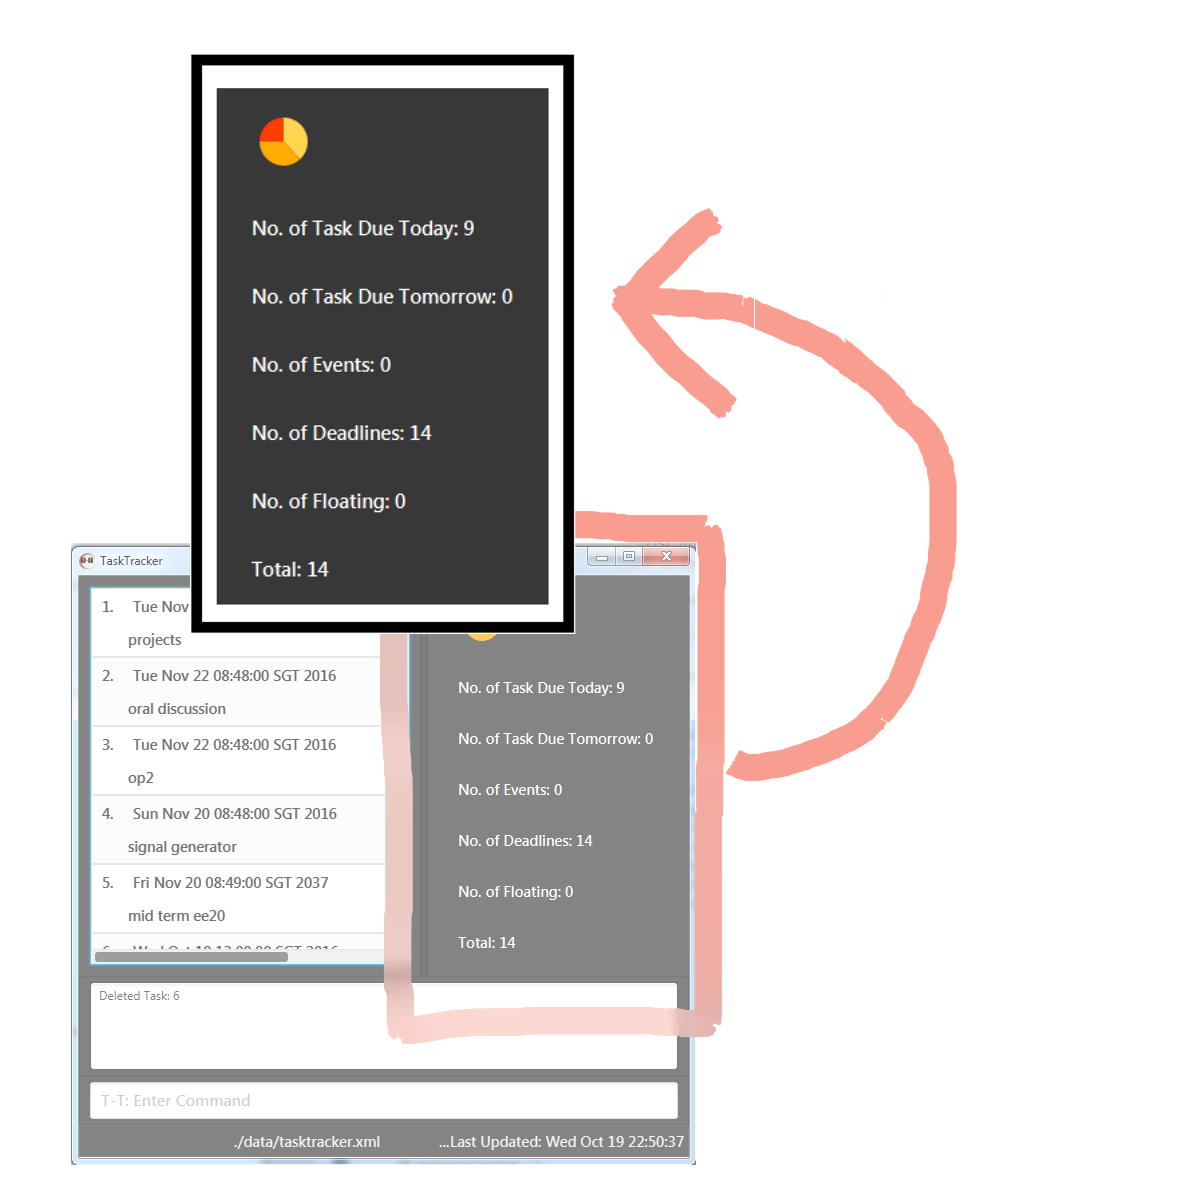
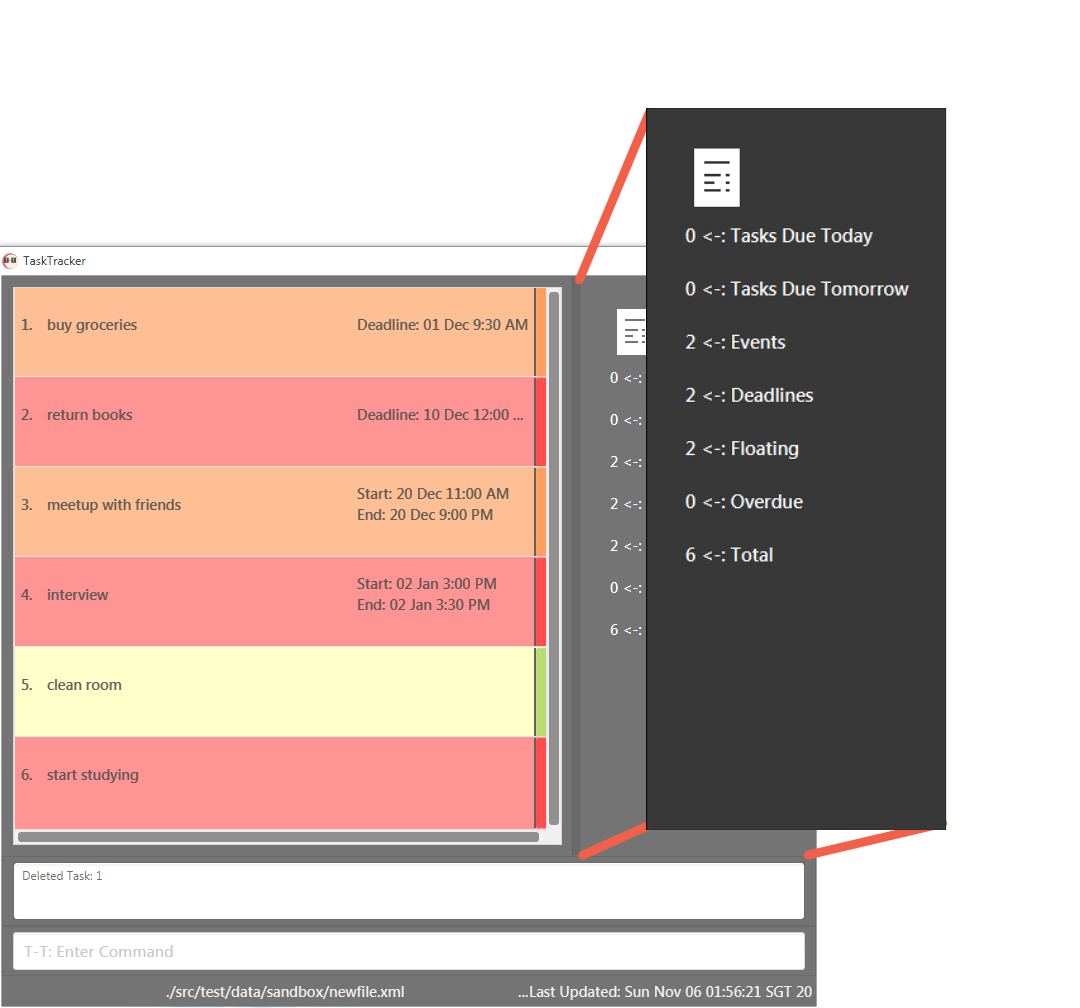
Updated User Guide content and screenshots for final draft

diff --git a/docs/UserGuide.md b/docs/UserGuide.md
@@ -8,13 +8,14 @@
 *   [Quick Start](https://github.com/CS2103AUG2016-T09-C3/main/blob/master/docs/UserGuide.md#quick-start)
 *   [Commands](https://github.com/CS2103AUG2016-T09-C3/main/blob/master/docs/UserGuide.md#commands)
     -   [Add a Task](https://github.com/CS2103AUG2016-T09-C3/main/blob/master/docs/UserGuide.md#1-add-a-task)
-    -   [Edit a Task](https://github.com/CS2103AUG2016-T09-C3/main/blob/master/docs/UserGuide.md#2-edit-a-task)
+    -   [List Tasks](https://github.com/CS2103AUG2016-T09-C3/main/blob/master/docs/UserGuide.md#5-list-tasks)
     -   [Delete a Task](https://github.com/CS2103AUG2016-T09-C3/main/blob/master/docs/UserGuide.md#3-delete-a-task)
     -   [Done Task](https://github.com/CS2103AUG2016-T09-C3/main/blob/master/docs/UserGuide.md#4-done-task)
-    -   [List Tasks](https://github.com/CS2103AUG2016-T09-C3/main/blob/master/docs/UserGuide.md#5-list-tasks)
+    -   [Edit a Task](https://github.com/CS2103AUG2016-T09-C3/main/blob/master/docs/UserGuide.md#2-edit-a-task)
     -   [Undo](https://github.com/CS2103AUG2016-T09-C3/main/blob/master/docs/UserGuide.md#6-undo)
     -   [Redo](https://github.com/CS2103AUG2016-T09-C3/main/blob/master/docs/UserGuide.md#7-redo)
     -   [Search for Tasks](https://github.com/CS2103AUG2016-T09-C3/main/blob/master/docs/UserGuide.md#8-search-for-tasks)
+    -   [Sort]()
     -   [Storage](https://github.com/CS2103AUG2016-T09-C3/main/blob/master/docs/UserGuide.md#9-storage)
     -   [Help Command](https://github.com/CS2103AUG2016-T09-C3/main/blob/master/docs/UserGuide.md#10-help)
 *   [Unique Features](https://github.com/CS2103AUG2016-T09-C3/main/blob/master/docs/UserGuide.md#unique-features)
@@ -43,7 +44,7 @@ In order to install T-T,
 
 ## **Commands**
 
-`<>` _indicates that field is compulsory_ and `[]` _indicates that field is optional._ 
+##### `<>` _indicates that field is compulsory_ and `[]` _indicates that field is optional._ 
 
 ### 1. **ADD** a Task
 
@@ -68,31 +69,40 @@ The format for adding a new task is: <br>
     *   Except for `<task>`, the other parameters can be inputed in any order.
 
 <br>For example:<br>
-*   `•  add wash dishes monday 4pm -h ` will create a high priority `wash dishes` task to be done on the **next Monday**.
-*   `•  add call mum tmr ` will create a task named `call mum` to be done anytime on **the next day** with **normal** priority.<br>
-![Add Screen](images/Add_Command2.png)
+*   ` add wash dishes monday 4pm -h ` will create a high priority `wash dishes` task to be done on the **next Monday**.
+*   ` add call mum tmr ` will create a task named `call mum` to be done anytime on **the next day** with **normal** priority.<br>
+<img src="images/add_command1.png" height="600p" width="750p"><br>
 <br>
-![Add Screen](images/Add_Command.png)
+!<img src="images/add_command2.png" height="600p" width="750p"><br>
 
-### 2. **EDIT** a Task
+### 2. **LIST** Tasks
 
-The format to edit an existing task is : <br>
-&nbsp; &nbsp; `edit <task index> <new task> [new date1] [new date2] [-h | -m | -l] ` <br>
+The format to list tasks is : <br>
+&nbsp; &nbsp; `list [date | priority | done]`<br>
 
-  * `<task index>` can be obtained from the list panel, or by using the list command (See **List** command).
+>   *   The tasks will be shown based on the parameters specified. If no parameters given, the tasks are organized by date.
+>   *   done parameter will list all the tasks marked done.
+>   *   Both date and priority can be specified at the same time.
 
-<br> For example: <br>
+Tasks can be listed according to their priority, date when they are due or if they are marked as done.
 
-Let’s say task index “**1**” refers to the task `wash dishes monday 4pm`
+<br> For example : <br>
+* `list` will display all tasks organised by date.
+* `list 9 Oct`  will display all tasks due on 9th October.
+* `list high` will display all tasks of high priority.
+* `list high today` will display all tasks of high priority due today.
+* `list done` will display all the tasks marked done.
+* `list done today` will display all the done tasks which were due today.
 
-*  `edit 1 wash dishes tuesday 6pm -h` will edit the existing `wash dishes` task to `use dishes` and change the date from **monday** to **tuesday** , time from **4pm** to **6pm** and priority from **medium** to **high**.
+<br>
+<img src="images/list_command.png" height="600p" width="750p"><br>
 
 ### 3. **DELETE** a Task
 
 The format to delete an existing task is : <br>
 &nbsp; &nbsp; `delete <task index>` <br>
 
->   *  `<task index>` can be obtained from the list panel, or by using the list 
+>   *  `<task index>` can be obtained from the list panel.
 
 
 <br> For example: <br>
@@ -105,12 +115,12 @@ Let’s say task index “**1**” refers to the task `wash dishes monday 4pm`
 
 ### 4. **DONE** TASK
 
-Tasks can be marked done after they have been completed. Tasks marked as done will not appear in the main list, but can be viewed by the list command (see LIST).<br>
-
 The format to mark a task as done is : <br>
 &nbsp; &nbsp; `done <task index>` <br>
 
->   *  `<task index>` can be obtained from the list panel, or by using the list 
+>   *  `<task index>` can be obtained from the list panel.
+
+Tasks can be marked done after they have been completed. Tasks marked as done will not appear in the main list, but can be viewed by the **LIST** command.<br>
 
 <br> For example: <br>
 
@@ -118,37 +128,33 @@ Let’s say task index “**1**” refers to the task `do laundry monday 4pm`
 
 *   `done 1` will mark the `do laundry` task as done.
 
-### 5. **LIST** Tasks
+### 5. **EDIT** a Task
 
-Tasks can be listed according to their priority, date when they are due or if they are marked done.
 The format to edit an existing task is : <br>
-&nbsp; &nbsp; `list [date | priority | done]`<br>
+&nbsp; &nbsp; `edit <task index> <new task> [new date1] [new date2] [-h | -m | -l] ` <br>
 
->   *   The tasks will be shown based on the parameters specified. If no parameters given, the tasks are organized by date.
->   *   done parameter will list all the tasks marked done.
->   *   Both date and priority can be specified at the same time.
+  * `<task index>` can be obtained from the list panel.
 
-<br> For example : <br>
-`list 9 Oct`  will display all tasks due on 9th October.
-`list high` will display all tasks of high priority.
-`list` will display all tasks organised by date.
-`list high today` will display all tasks of high priority due today.
-`list done` will display all the tasks marked done.
-`list done today` will display all the done tasks which were due today.
+<br> For example: <br>
 
+Let’s say task index “**1**” refers to the task `wash dishes monday 4pm`
+
+*  `edit 1 wash dishes tuesday 6pm -h` will edit the existing `wash dishes` task to `use dishes` and change the date from **monday** to **tuesday** , time from **4pm** to **6pm** and priority from **medium** to **high**.
 <br>
-![List Screen](images/List_Command.png)
+<img src="images/edit_command1.png" height="600p" width="750p"><br>
 
+<img src="images/edit_command2.png" height="550p" width="650p"><br>
+<br>
 ### 6. **UNDO**
 
-Enter `undo` into the command line to undo the previous commands you have entered in the session.  
+The `undo` command will undo the previous commands you have entered in the session.  
 
 <br> For example : <br>
 Entering `undo` after executing `delete 2` will bring back the deleted task.
 
 ### 7. **REDO**
 
-Enter `redo` into the command line to redo the previous undo you have executed in the session.  
+The `redo` command will redo the previous `undo` you have executed in the session.  
 
 ### 8. **SEARCH** for Tasks
 
@@ -159,15 +165,36 @@ The format to search for certain tasks is :
 
 For example:  
 
-Let say task index **1** refers to the task `wash dishes monday 4pm`
+Let say there is a task `wash dishes monday 4pm`
 
 *   `search dishes` will show the existing `wash dishes` task.
 
-### 9. **STORAGE** 
-The storage command can be used to change the storage location of tasks. Tasks are stored on the PC in an XML file.
+<br>
+<img src="images/search_command1.png" height="600p" width="750p"><br>
+<br>
+<br>
+<img src="images/search_command2.png" height="600p" width="750p"><br>
+<br>
+
+### 9. **SORT** Tasks
+
+The format to sort a list of tasks is : <br>
+&nbsp; &nbsp; `sort < date | name >`<br>
+
+>   *   The tasks will be shown based on the parameters specified.
+
+For example:
+>   *   `sort date` will sort the list of tasks based on their dates, displaying the closest deadlines at the top.
+>   *   `sort name` will sort the list lexicographically. 
+
+<br>
+
+### 10. **STORAGE** 
 
 The format to change storage location is :
-    `storage <filepath>`
+  <br>  `storage <filepath>` <br>
+
+The storage command can be used to change the storage location of tasks. Tasks are stored on your computer in an XML file.
 
 <br> For example : <br>
 
@@ -180,28 +207,40 @@ Entering `storage C://users/JohnDoe/NewFile.xml` will change the storage locatio
 
 ### 10. **HELP**
 
-Enter `help` into the command line to list out all the commands available in T-T.
+The `help` command will open a window which lists all the available commands in T-T.
+
+<br>
+<img src="images/help_command.png" height="600p" width="750p"><br>
 <br>
 <br>
-<!-- @@author A0139422J -->
+<br>
+
 ## **Unique Features**
 
 ### 1. List Statistics
-**T-T** also provides an intuitive listing the number of tasks stored, giving you a clearer idea on how to better deal with them. As seen in **the example below**, the numbers are displayed on the right of the task list. 
+**T-T**  provides an intuitive listing of the number of tasks stored, giving you a clearer idea on how to better deal with them. As seen in **the example below**, the numbers are displayed on the right of the task list. 
 
 **T-T**'s list statistics provides data on all the different types of tasks available in storage:
 
-    -      Today's Tasks 
-    -      Tomorrow's Tasks
-    -      Event Tasks (Tasks with parameters all filled.)
-    -      Deadline Tasks (Tasks which are much due much later)
-    -      Floating Tasks (Tasks with incomplete parameters)  
+* Today's Tasks 
+* Tomorrow's Tasks
+* Event Tasks (Tasks with two dates specified)
+* Deadline Tasks (Tasks only one date specified)
+* Floating Tasks (Tasks with no date specified)  
+* Overdue Tasks (Tasks whose date has passed)
+* Total Tasks 
+
+<img src="images/list_statistics.png" height="600p" width="750p"><br>
 <br>
-![List Screen](images/List_Statistics.png)
-<br>
+
+
 
 ### 2. Overdue Detection
 Apart from the three basic colors shown earlier to indicate different priorities, T-T also indicates to users which tasks have become overdued. If the current time has overshot an event task's endtime or a deadline task's deadline, the corresponding task will be shown with a black tab, as shown below. 
+
+<br>
+<img src="images/overdue_detection.png" height="600p" width="750p"><br>
+<br>
 
 ### 3. Autocompletion
 Users who find typing in the many commands **T-T** provides too tedious may opt to use the autocompletion function the app has as well. Simply press the `Tab` key and you will be able to cycle through all the different command. 
@@ -222,6 +261,10 @@ The user interface is not just limited to just one color. **T-T** offers you a v
 
 By pressing `F1` and `F2`, you can toggle between the different themes and choose any which suit your preference. 
 
+<br>
+<img src="images/color_toggle.png" height="600p" width="750p"><br>
+<br>
+
 ### 5. Minimize Window
 Once you are done with what you need to do in **T-T**, you can simply press `Esc` to minimize the window.
 
@@ -239,12 +282,13 @@ Getting the hang of it? Here’s a quick and dirty summary of all **T-T** comman
 | undo  | Undoes the previous command  | `undo` |
 | redo  | Redoes the previous undo | `redo` |
 | search  | Searchs for tasks that contain a designated keyword  | `search meaning` |
+| sort  | Sorts the list of tasks by date or lexicographically | `sort date` |
 | storage | Changes the location of the XML file in which tasks are stored |`storage C://Users/Desktop/newfile.xml` |
 |  help | Displays the list of commands available on T-T  |  `help` |
 
 <br>
 <br>
-<!-- @@author A0139422J -->
+
 | Keyboard Shortcuts  | Function  |
 |---|---|
 | `UP`/`DOWN`   |  Toggles history of recent commands  |
